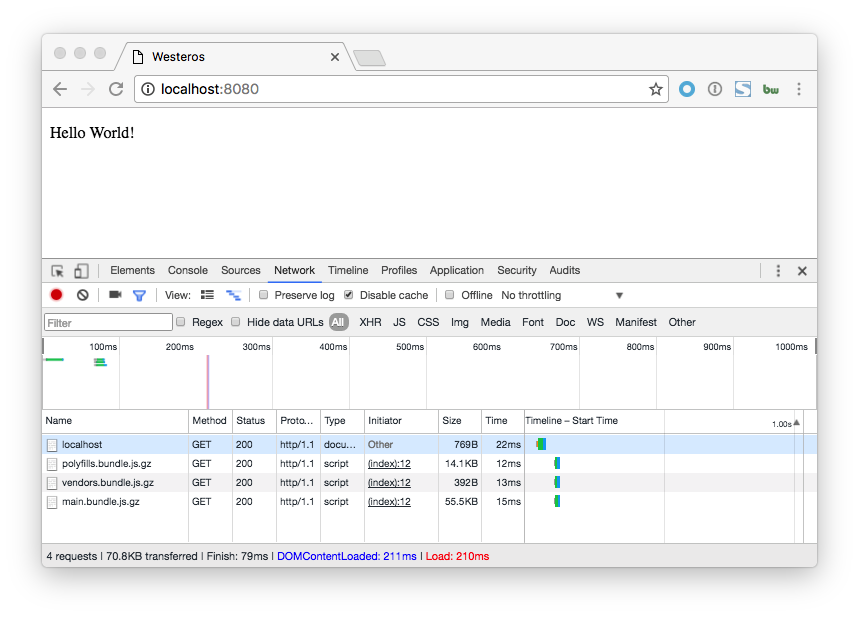
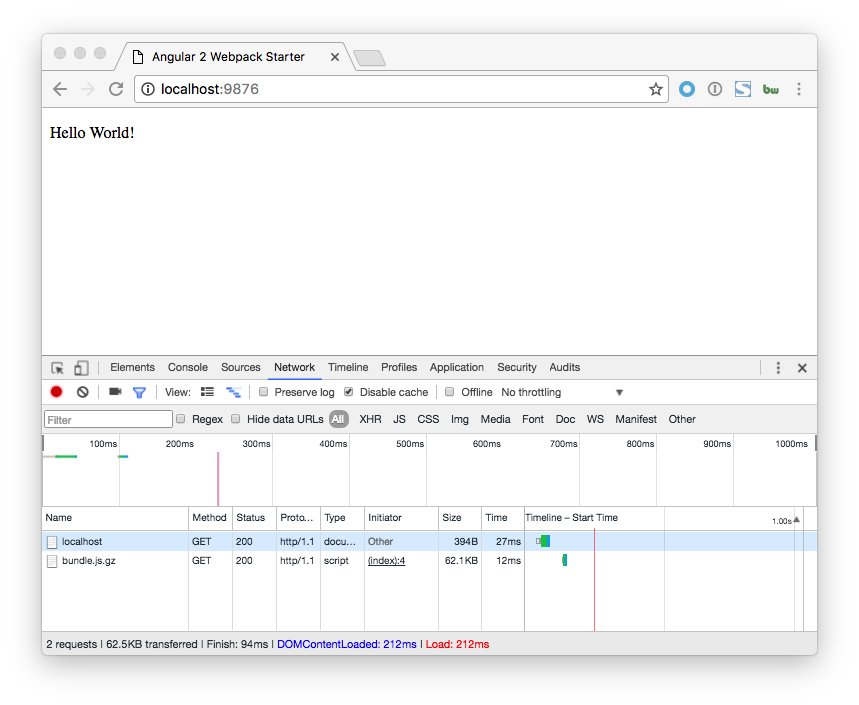
Update README and screenshot.

diff --git a/README.md b/README.md
@@ -1,5 +1,5 @@
 # Angular 2 Webpack Starter
 
-AOT + Tree-shaking + Minify + Gzip => 70.8KB
+AOT + Tree-shaking + Minify + Gzip => 62.5KB
 
 ![Network Screenshot](./network.png)
